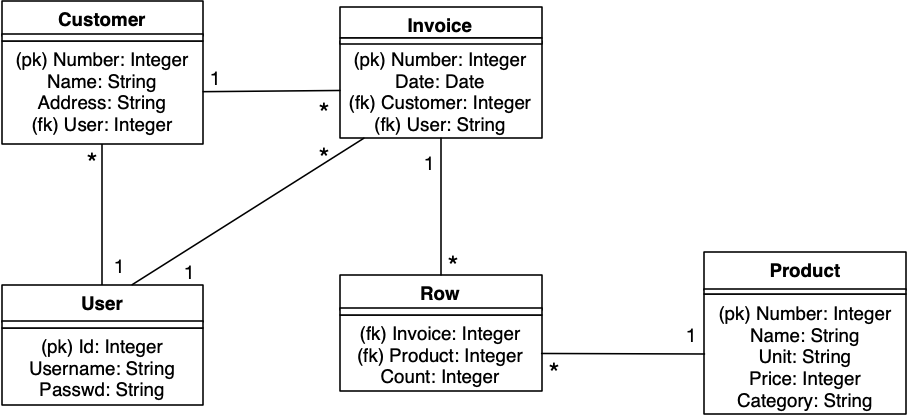
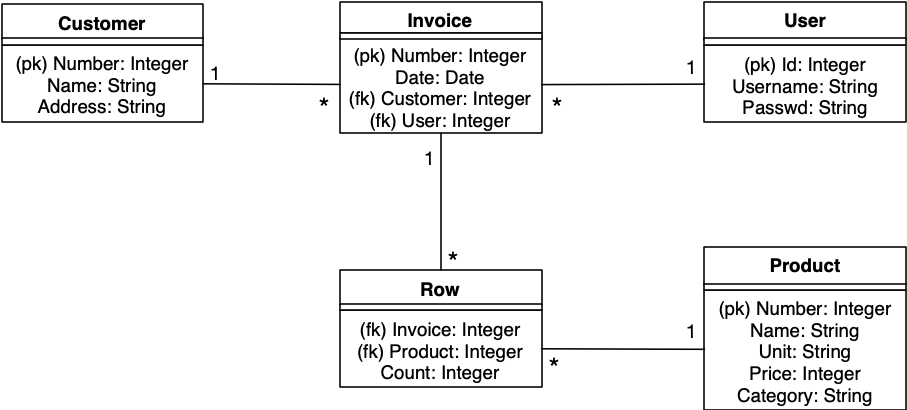
Update documentation

diff --git a/README.md b/README.md
@@ -8,7 +8,7 @@ Ilman kirjautumista voi katsoa vain tuotehinnastoa. Käyttäjätunnukset *erkki*
 
 Tuoterekisterissä on tuoteryhmä-kenttä yhteenvetoraportointia varten. Esimerkiksi asiakaskohtainen raportointi tuoteryhmittäin edellyttää useamman taulun yhteiskäyttöä ja summaamista.
 
-Jokaisella käyttäjällä tulee olemaan omat asiakkaansa eivätkä käyttäjät näe toistensa asiakkaita. Sama koskee laskuja.
+Jokaisella käyttäjällä on omat laskunsa eivätkä käyttäjät näe toistensa laskuja.
 
 Käyttäjät voivat katsoa, lisätä, poistaa ja muokata tuotteita, omia laskujaan ja omia asiakkaitaan. Katso lisää: <https://github.com/riihikallio/tsoha/blob/master/documentation/user_stories.md>
 
